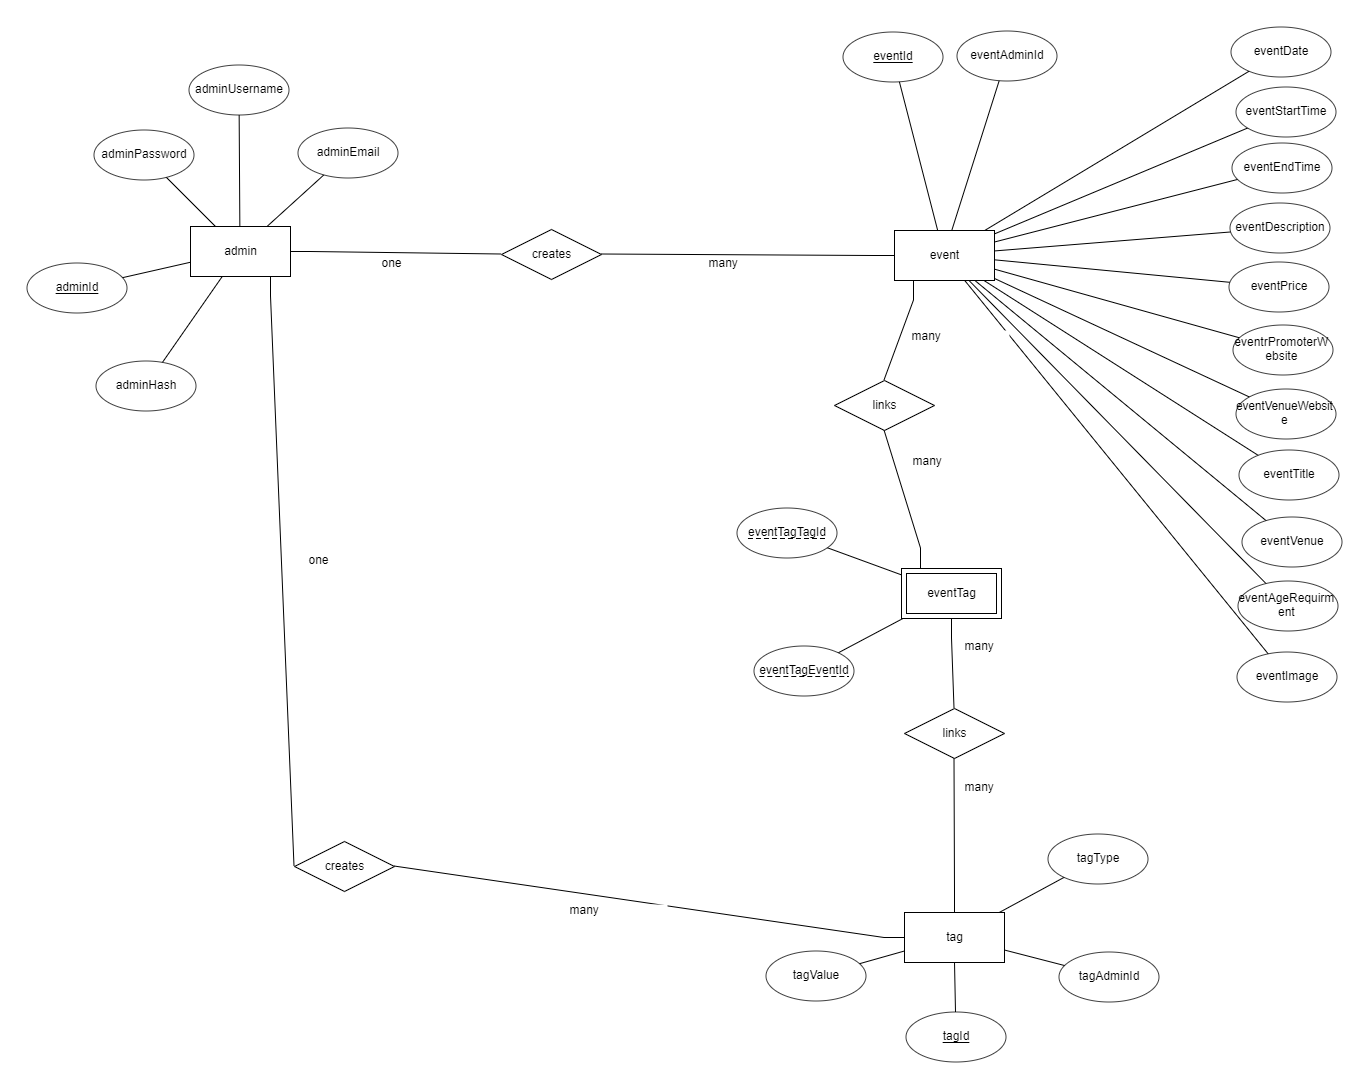
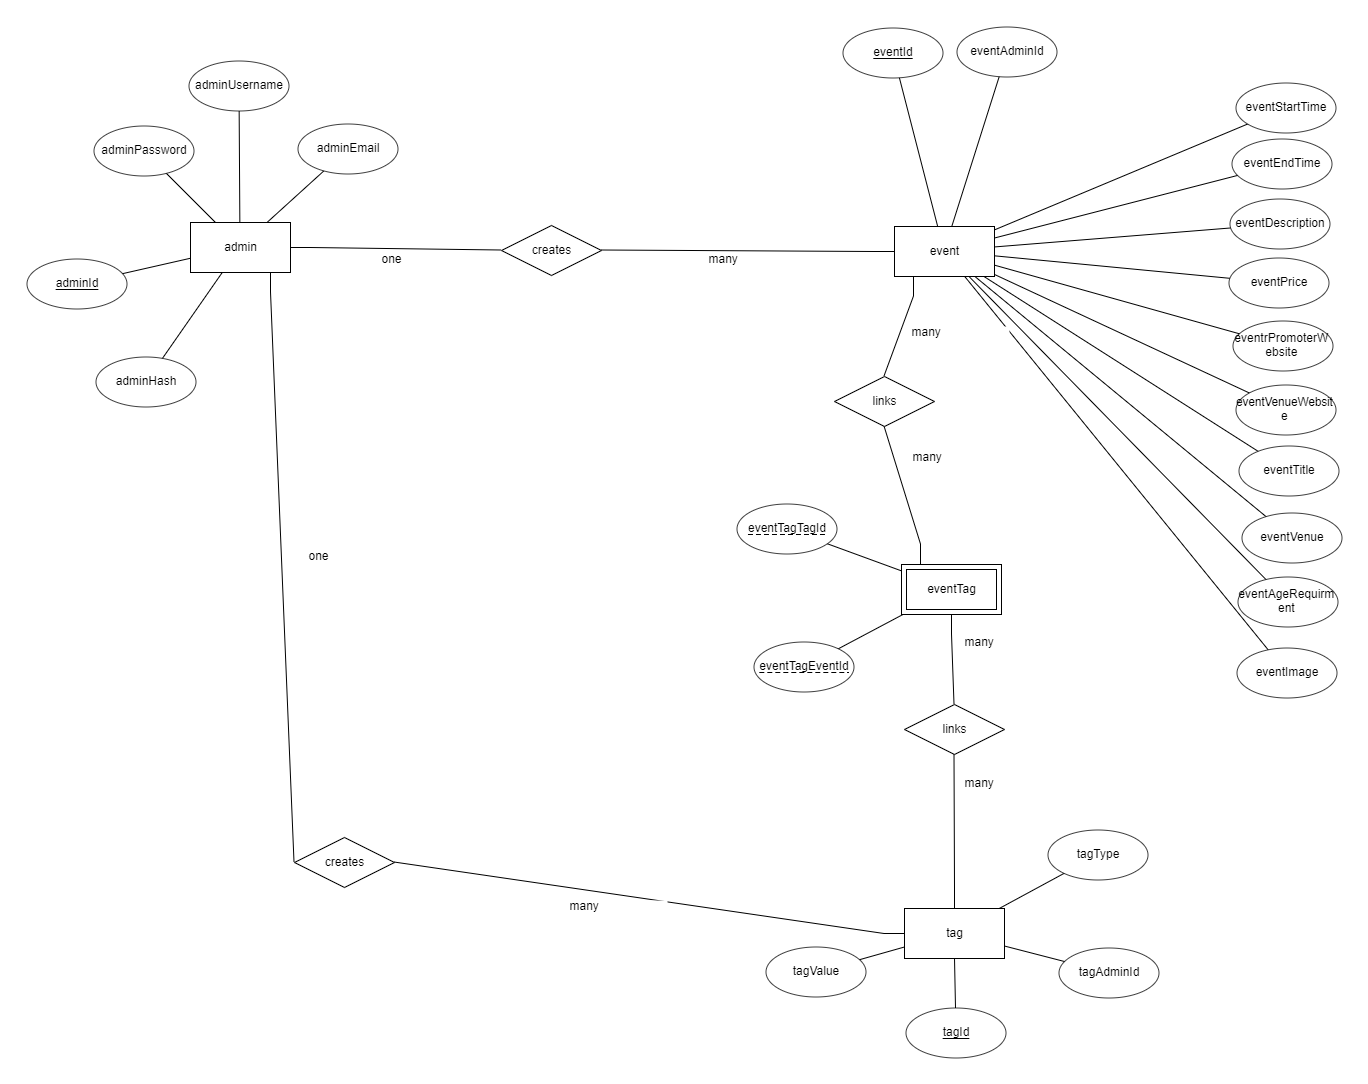
fixed issue in ddl, removed eventDate from mysql, event class, con model and erd. https://app.asana.com/0/1108524870361544/list

diff --git a/epic/concept-model.html b/epic/concept-model.html
@@ -16,7 +16,6 @@
                 <li>eventId (primary key)</li>
                 <li>eventAdminId (foreign key)</li>
                 <li>eventAgeRequirement</li>
-                <li>eventDate</li>
                 <li>eventDescription</li>
                 <li>eventEndTime</li>
                 <li>eventImage</li>

diff --git a/php/Classes/Event.php b/php/Classes/Event.php
@@ -227,37 +227,6 @@ class event implements \JsonSerializable {
 		$this->eventAgeRequirement = $newEventAgeRequirement;
 	}
 
-	/**
-	 * accessor method for event date
-	 *
-	 * @return \DateTime value of event date
-	 **/
-	public function getEventDate() : \DateTime {
-		return($this->eventDate);
-	}
 
-	/**
-	 * mutator method for event date
-	 *
-	 * @param \DateTime|string $newEventDate tweet date as a DateTime object or string
-	 * @throws \InvalidArgumentException if $newEventDate is not a valid object or string
-	 * @throws \RangeException if $newEventDate is a date that does not exist
-	 **/
-	public function setEventDate($newEventDate = null) : void {
-		// base case: if the date is null, use the current date and time
-		if($newEventDate === null) {
-			$this->eventDate = new \DateTime();
-			return;
-		}
-
-		// store the like date using the ValidateDate trait
-		try {
-			$newEventDate = self::validateDateTime($newEventDate);
-		} catch(\InvalidArgumentException | \RangeException $exception) {
-			$exceptionType = get_class($exception);
-			throw(new $exceptionType($exception->getMessage(), 0, $exception));
-		}
-		$this->eventDate = $newEventDate;
-	}
 
 }
